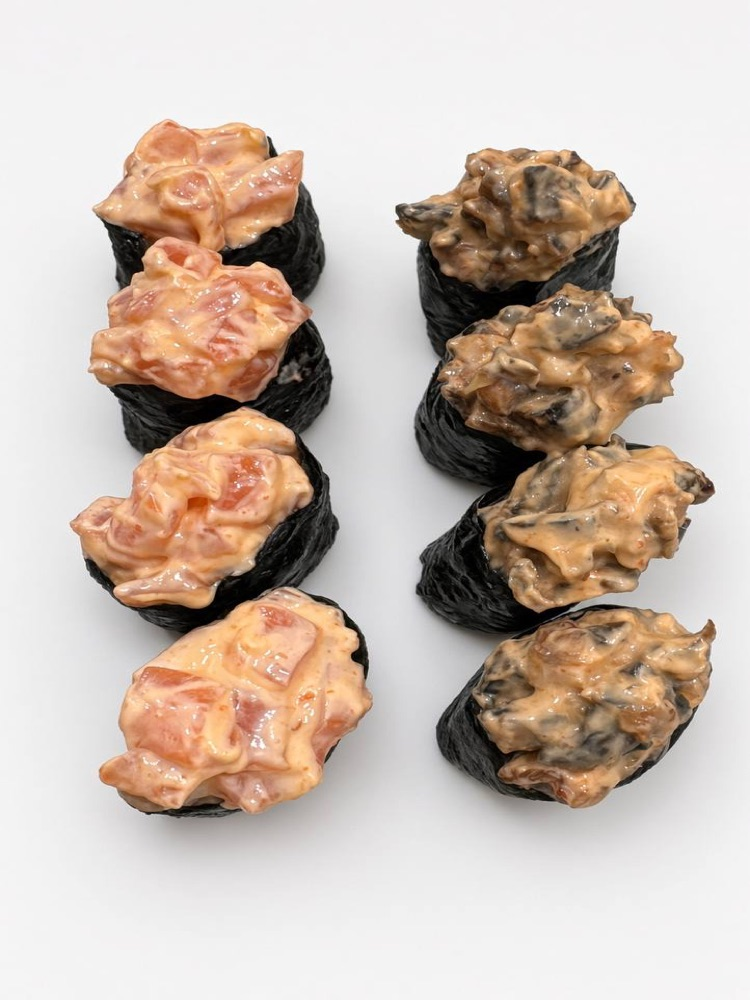
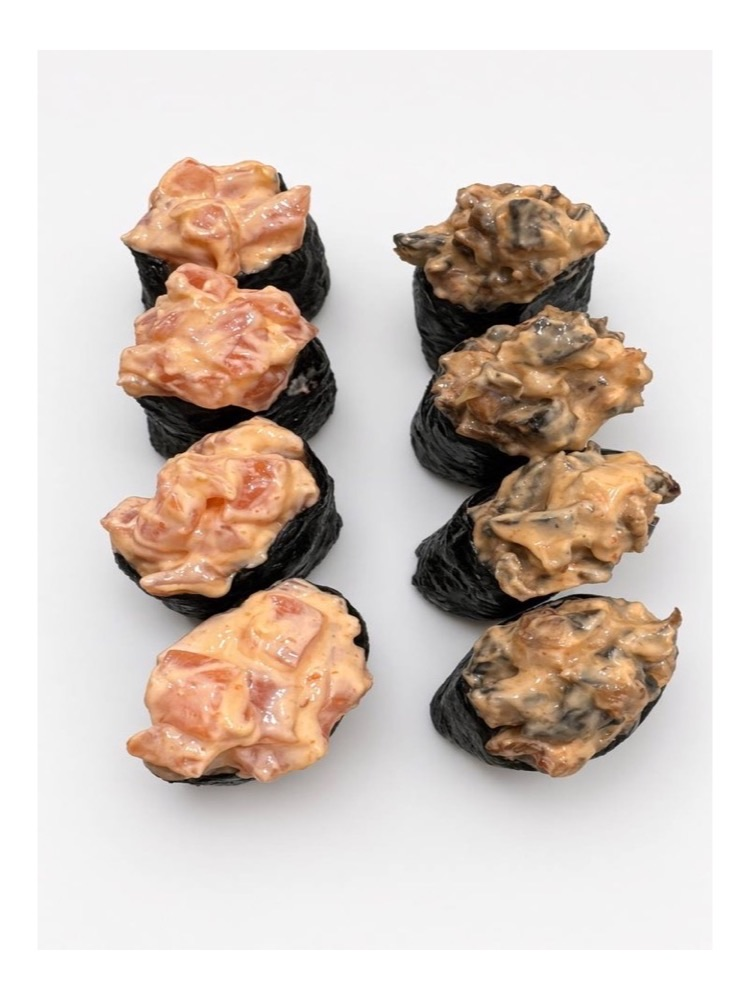
fix: правки по 4 новым позициям
- card__foot переносится на новую строку при переполнении — чинит обрезанную кнопку "У кошик" у Сет Філадельфія (длинная цена 504k)
- Філадельфія мікс и Сет Гункан: фото немного уменьшены (белые поля)
- Сет Гункан перемещён в Rolls·Новинка сразу после Філадельфії з креветкою (был в отдельном разделе Sushi)

diff --git a/js/menu-data.js b/js/menu-data.js
@@ -51,6 +51,16 @@ const MENU = [
     }
   },
   {
+    id: 49, cat: "rolls", sub: "new", price: 252000, neu: true, img: "img/menu/49.jpg", // ФОТО: Сет Гункан
+    name: { ua: "Сет Гункан", ru: "Сет Гункан", en: "Gunkan Set", vn: "Set Gunkan" },
+    desc: {
+      ua: "8 шт: 4 Гункан Лосось, 4 Гункан Вугор, рис",
+      ru: "8 шт: 4 Гункан Лосось, 4 Гункан Угорь, рис",
+      en: "8 pcs: 4 Gunkan Salmon, 4 Gunkan Eel, rice",
+      vn: "8 miếng: 4 Gunkan cá hồi, 4 Gunkan lươn, cơm"
+    }
+  },
+  {
     id: 45, cat: "rolls", sub: "new", price: 210000, neu: true, img: "img/menu/45.jpg", // ФОТО: Філадельфія з вугром та авокадо
     name: { ua: "Філадельфія з вугром та авокадо", ru: "Филадельфия с угрём и авокадо", en: "Philadelphia Eel & Avocado", vn: "Philadelphia lươn & bơ" },
     desc: {
@@ -250,18 +260,6 @@ const MENU = [
       ru: "Рис, Угорь, Нори ½",
       en: "Rice, Eel, Nori ½",
       vn: "Cơm, Lươn, Rong biển ½"
-    }
-  },
-
-  /* ---------- СУШИ · НОВИНКА ---------- */
-  {
-    id: 49, cat: "sushi", sub: "new", price: 252000, neu: true, img: "img/menu/49.jpg", // ФОТО: Сет Гункан
-    name: { ua: "Сет Гункан", ru: "Сет Гункан", en: "Gunkan Set", vn: "Set Gunkan" },
-    desc: {
-      ua: "8 шт: 4 Гункан Лосось, 4 Гункан Вугор, рис",
-      ru: "8 шт: 4 Гункан Лосось, 4 Гункан Угорь, рис",
-      en: "8 pcs: 4 Gunkan Salmon, 4 Gunkan Eel, rice",
-      vn: "8 miếng: 4 Gunkan cá hồi, 4 Gunkan lươn, cơm"
     }
   },
 
@@ -510,6 +508,6 @@ const I18N = {
 const CATEGORIES = ["rolls", "sushi", "drinks"];
 const SUBGROUPS = {
   rolls: ["new", "philadelphia", "baked", "spicy", "dragon", "maki"],
-  sushi: ["new", "gunkan", "nigiri"],
+  sushi: ["gunkan", "nigiri"],
   drinks: ["drinks"]
 };

diff --git a/supabase/functions/send-order/index.ts b/supabase/functions/send-order/index.ts
@@ -65,7 +65,7 @@ const MENU: Record<string, Dish> = {
   "46":{"p":504000,"c":"rolls","n":{"ua":"Сет Філадельфія","ru":"Сет Филадельфия","en":"Philadelphia Set","vn":"Set Philadelphia"}},
   "47":{"p":207000,"c":"rolls","n":{"ua":"Філадельфія мікс","ru":"Филадельфия микс","en":"Philadelphia Mix","vn":"Philadelphia Mix"}},
   "48":{"p":225000,"c":"rolls","n":{"ua":"Філадельфія з креветкою","ru":"Филадельфия с креветкой","en":"Philadelphia Shrimp","vn":"Philadelphia tôm"}},
-  "49":{"p":252000,"c":"sushi","n":{"ua":"Сет Гункан","ru":"Сет Гункан","en":"Gunkan Set","vn":"Set Gunkan"}},
+  "49":{"p":252000,"c":"rolls","n":{"ua":"Сет Гункан","ru":"Сет Гункан","en":"Gunkan Set","vn":"Set Gunkan"}},
   "90":{"p":135000,"c":"rolls","n":{"ua":"Філадельфія з лососем (Light)","ru":"Филадельфия с лососем (Light)","en":"Philadelphia with Salmon (Light)","vn":"Philadelphia cá hồi (Light)"}},
   "91":{"p":135000,"c":"rolls","n":{"ua":"Філадельфія Гриль (Light)","ru":"Филадельфия Гриль (Light)","en":"Philadelphia Grill (Light)","vn":"Philadelphia nướng (Light)"}},
   "200":{"p":20000,"c":"addon","noSale":true,"n":{"ua":"Додатковий імбир","ru":"Дополнительный имбирь","en":"Extra ginger","vn":"Gừng thêm"}},

diff --git a/css/style.css b/css/style.css
@@ -232,7 +232,7 @@ button{ font-family:inherit; cursor:pointer; border:none; background:none; color
 .variant-switch.is-light .vtoggle{ background:#3DBB6B; }
 .vtoggle__knob{ position:absolute; top:3px; left:3px; width:26px; height:26px; border-radius:50%; background:#fff; box-shadow:0 1px 3px rgba(0,0,0,.25); transition:left .2s ease; }
 .variant-switch.is-light .vtoggle__knob{ left:29px; }
-.card__foot{ display:flex; align-items:center; justify-content:space-between; gap:10px; }
+.card__foot{ display:flex; flex-wrap:wrap; align-items:center; justify-content:space-between; gap:10px; }
 .card__price{ font-family:var(--font-disp); font-weight:800; font-size:18px; }
 
 /* скидка −20% */
